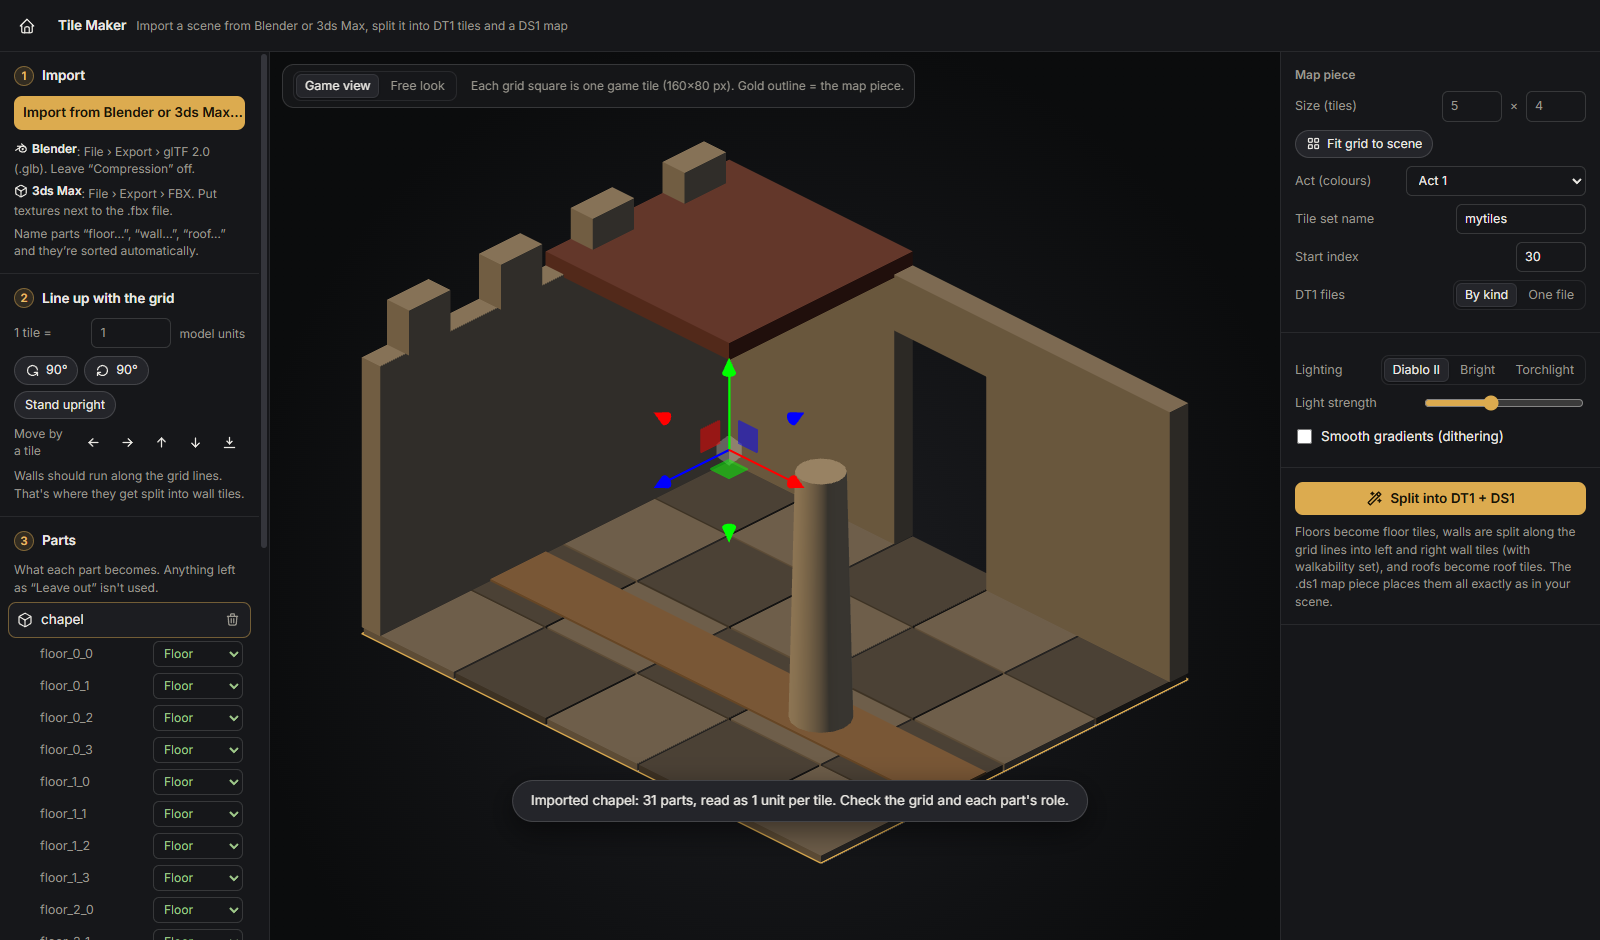
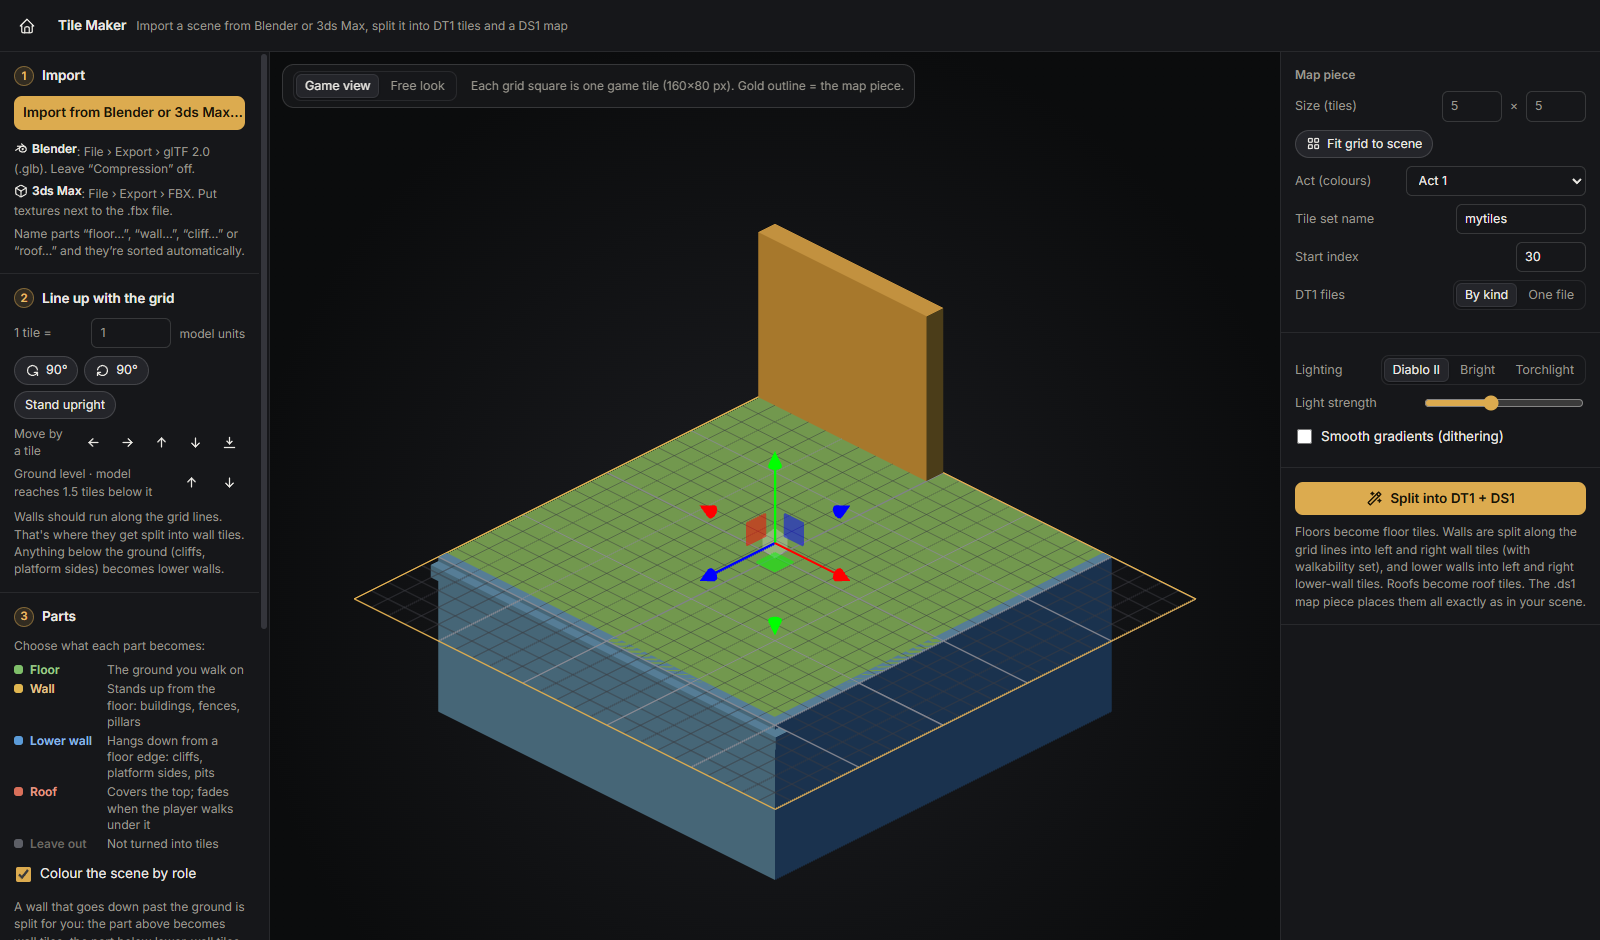
Preview v1.1: AI assistants (MCP) and lower walls in the Tile Maker

diff --git a/index.html b/index.html
@@ -176,13 +176,14 @@
 
 <div class="wrap">
   <header class="hero">
-    <div class="eyebrow"><b>Project Diablo 2</b> · standalone Windows editor · v1.0</div>
+    <div class="eyebrow"><b>Project Diablo 2</b> · standalone Windows editor · v1.1</div>
     <h1>PD2 <span>Sprite</span> Studio</h1>
     <p class="pitch">
       An editor for Diablo II / Project Diablo 2 graphics that reads straight from the game's MPQ archives.
       You can <strong>edit character, monster and item sprites pixel by pixel</strong> in the game palettes,
       <strong>turn 3D models into animated sprites</strong>, and <strong>cut 3D scenes from Blender or 3ds Max into DT1 map tiles
-      and a DS1 map piece</strong>. Everything saves back out in the game's own formats.
+      and a DS1 map piece</strong>. Everything saves back out in the game's own formats, and <strong>AI assistants can drive it over MCP</strong>
+      while you watch.
     </p>
     <div class="formats" aria-label="Formats handled">
       <span><b>MPQ</b> read</span>
@@ -194,6 +195,7 @@
       <span><b>animdata.d2</b> read</span>
       <span><b>FBX · GLB · OBJ</b> import</span>
       <span><b>PNG · JPEG · GIF</b> export</span>
+      <span><b>MCP</b> server</span>
     </div>
     <div class="hero-shot"><img src="screenshots/04-editor.png" alt="The sprite editor with the Barbarian's attack animation open: tool rail on the left, body parts on the right, frames and facing at the bottom, and a live preview." width="1600" height="940"></div>
   </header>
@@ -205,6 +207,7 @@
     <a href="#proof">Format accuracy</a>
     <a href="#how">How it works</a>
     <a href="#tiles">Tile Maker pipeline</a>
+    <a href="#ai">AI assistants</a>
     <a href="#limits">Known limits</a>
     <a href="#run">Running it</a>
     <a href="#refs">References</a>
@@ -253,12 +256,12 @@
         <figcaption><b>3D Studio (three.js).</b> Load FBX, GLB or OBJ with animations, attach props to bones, and preview in the game's colours on the current body. One click renders every facing × frame straight into a body part (16 × 16 in about 1.6 s).</figcaption>
       </figure>
       <figure>
-        <button type="button" data-full="screenshots/11-tile-maker.png"><img src="screenshots/11-tile-maker.png" alt="Tile Maker with an imported chapel scene on the isometric map grid, with import, line-up and parts steps." loading="lazy" width="1600" height="940"></button>
-        <figcaption><b>Tile Maker.</b> Import a scene from Blender or 3ds Max, line it up with the tile grid, and give each part the role floor, wall or roof.</figcaption>
+        <button type="button" data-full="screenshots/11-tile-maker.png"><img src="screenshots/11-tile-maker.png" alt="Tile Maker with an imported plateau coloured by role: green floor, gold wall, blue lower-wall cliffs below the ground, with the role legend." loading="lazy" width="1600" height="940"></button>
+        <figcaption><b>Tile Maker.</b> Import a scene from Blender or 3ds Max, line it up with the tile grid, and give each part a role: floor, wall, lower wall (cliffs, platform sides) or roof. A legend explains each role and the scene can be coloured by role; here a plateau's sides became lower walls on their own.</figcaption>
       </figure>
       <figure>
         <button type="button" data-full="screenshots/12-tile-maker-result.png"><img src="screenshots/12-tile-maker-result.png" alt="Tile Maker result: the map piece rendered by game rules, with tile counts and the DT1 files to be written." loading="lazy" width="1600" height="940"></button>
-        <figcaption><b>Split result.</b> The map piece is drawn from the generated DT1s and DS1 using the game's placement rules, then saved as <code>_floor</code>, <code>_walls</code> and <code>_roof</code> DT1s plus a <code>.ds1</code>.</figcaption>
+        <figcaption><b>Split result.</b> The map piece is drawn from the generated DT1s and DS1 using the game's placement rules, then saved as <code>_floor</code>, <code>_walls</code> and <code>_roof</code> DT1s plus a <code>.ds1</code>. The cliff faces are lower-wall tiles (orientations 16/17), drawn before the floor as the game does.</figcaption>
       </figure>
     </div>
   </div>
@@ -286,7 +289,8 @@
             <tr><td>DCC animations (sampled), decode → encode → decode</td><td class="n"><span class="ok">251 / 251</span> pixel-identical</td></tr>
             <tr><td>DT1 tile sets (v7), decode and re-encode</td><td class="n"><span class="ok">372 / 372</span> (221 byte-exact)</td></tr>
             <tr><td>DS1 map presets, decode and re-encode</td><td class="n"><span class="ok">2,593 / 2,593</span> (2,541 byte-exact)</td></tr>
-            <tr><td>Tile Maker: synthetic scene → DT1 + DS1 → re-rendered</td><td class="n"><span class="ok">150,486 / 150,486</span> px</td></tr>
+            <tr><td>Tile Maker: synthetic scene → DT1 + DS1 → re-rendered</td><td class="n"><span class="ok">208,566 / 208,566</span> px</td></tr>
+            <tr><td>MCP server: protocol, tools, origin check and stdio bridge against the running app</td><td class="n"><span class="ok">13 / 13</span> checks</td></tr>
             <tr><td>DCC growth edit keeps untouched art lossless (cell-grid anchoring)</td><td class="n"><span class="ok">0 px</span> changed</td></tr>
           </tbody>
         </table>
@@ -344,11 +348,63 @@
     <p class="lede">The old way was to render a scene and cut the walls into tiles by hand. This does the cutting automatically.</p>
     <ol class="pipeline">
       <li><span><b>Import and line up.</b> The model is set on the grid at “1 tile = N units” (auto-guessed for Blender metres or 3ds Max centimetres). You can stand Z-up models upright, turn them in 90° steps and move them by whole tiles.</span></li>
-      <li><span><b>Render layers.</b> Floor, wall and roof parts render separately through the exact tile camera, where world <code>(X, Y, Z)</code> maps to pixels as <code>((X−Z)·80, (X+Z)·40 − Y·98)</code>. A float render target also records each wall pixel's world position.</span></li>
-      <li><span><b>Slice.</b> Floors are sampled into the 25 diamond blocks per 160×80 tile. Each wall pixel goes to the nearest grid edge: near X = n gives a left wall (orientation 1), near Z = n gives a right wall (orientation 2). Roofs become orientation-15 tiles raised to their height.</span></li>
+      <li><span><b>Render layers.</b> Floor, wall, lower-wall and roof parts render separately through the exact tile camera, where world <code>(X, Y, Z)</code> maps to pixels as <code>((X−Z)·80, (X+Z)·40 − Y·98)</code>. A float render target also records each wall pixel's world position and which way its surface faces.</span></li>
+      <li><span><b>Slice.</b> Floors are sampled into the 25 diamond blocks per 160×80 tile. Each wall pixel goes to the grid line its surface runs along (the nearest line for flat tops): X = n gives a left wall (orientation 1), Z = n gives a right wall (orientation 2). Wall geometry below the ground becomes lower walls (16/17, directions 6/7). Roofs become orientation-15 tiles raised to their height.</span></li>
       <li><span><b>Walkability.</b> Low wall geometry marks the subtile it stands on as blocked (<code>0x07</code>), stored in the same row order the game's tiles use.</span></li>
-      <li><span><b>Write.</b> Identical tiles are shared, then indexes are assigned from a chosen start (64 per main index). It writes DT1 v7/6 files split by kind, plus a DS1 v18 map piece listing them, with floors in layer 1, left and right walls in wall layers 1–2 and roofs in wall layer 3.</span></li>
+      <li><span><b>Write.</b> Identical tiles are shared, then indexes are assigned from a chosen start (64 per main index). It writes DT1 v7/6 files split by kind, plus a DS1 v18 map piece listing them, with floors in layer 1 and walls, lower walls and roofs filling up to 4 wall layers.</span></li>
     </ol>
+  </div>
+</section>
+
+<section id="ai">
+  <div class="wrap">
+    <h2>AI assistants (MCP)</h2>
+    <p class="lede">
+      New in 1.1: the app can serve the <a href="https://modelcontextprotocol.io">Model Context Protocol</a>, so an assistant such as Claude
+      can work in the open app while you watch. Every change goes through the same code as the UI: it shows up live, is one undo step, and
+      exports like a hand edit. Tool results include pictures (the frame, a sheet, or the map drawn with the game's rules), so the assistant
+      can check its own work.
+    </p>
+    <div class="screens">
+      <figure>
+        <button type="button" data-full="screenshots/16-ai-settings.png"><img src="screenshots/16-ai-settings.png" alt="Settings with the AI assistants section: an on/off switch, the running address, and copyable setup for Claude Code and Claude Desktop." loading="lazy" width="1600" height="940"></button>
+        <figcaption><b>Turning it on.</b> Off by default. When it's on, Settings shows a one-line setup for Claude Code and a config block for Claude Desktop.</figcaption>
+      </figure>
+      <figure>
+        <button type="button" data-full="screenshots/17-ai-tile-scene.png"><img src="screenshots/17-ai-tile-scene.png" alt="Tile Maker scene built entirely through MCP tool calls: floor, two walls with a doorway, a pillar, and cliffs, coloured by role." loading="lazy" width="1600" height="940"></button>
+        <figcaption><b>A scene built by tool calls.</b> Floor slabs, walls with a doorway, a pillar and cliffs, added with <code>tiles_add_block</code>. Parts below the ground became lower walls automatically.</figcaption>
+      </figure>
+    </div>
+    <div class="cols" style="margin-top:22px">
+      <div class="card">
+        <div class="tag">Sprites</div>
+        <h3>Find, edit, export</h3>
+        <ul>
+          <li><code>search_sprites</code>, <code>open_animation</code>, <code>open_item</code>, <code>set_layer</code> (body part, style, new style code)</li>
+          <li><code>view_frame</code>, <code>view_sheet</code>, <code>read_pixels</code>, <code>palette</code> (nearest colours, shading ramps)</li>
+          <li><code>recolor_material</code>, <code>replace_color</code>, <code>hsv_shift</code>, <code>draw_pixels</code>, <code>draw_shape</code>, <code>outline</code>, <code>import_image</code></li>
+          <li><code>transfer_edits</code> carries one frame's edit through the animation; <code>undo</code> / <code>redo</code>; <code>export_pd2</code>, <code>export_image</code></li>
+        </ul>
+      </div>
+      <div class="card">
+        <div class="tag">Tile Maker</div>
+        <h3>Build and split scenes</h3>
+        <ul>
+          <li><code>tiles_add_block</code> (box, cylinder, cone, sphere, ramp in tile units) or <code>tiles_import_model</code></li>
+          <li><code>tiles_list_parts</code>, <code>tiles_set_role</code>, <code>tiles_settings</code>, <code>tiles_clear</code></li>
+          <li><code>tiles_split</code> returns tile counts and the map as the game draws it; <code>tiles_save</code> writes the DT1s and DS1</li>
+        </ul>
+      </div>
+      <div class="card">
+        <div class="tag">Connection</div>
+        <h3>Local only</h3>
+        <ul>
+          <li>Streamable HTTP on <code>127.0.0.1:41730/mcp</code>; requests from web pages (other origins or hosts) are refused</li>
+          <li>Claude Desktop and other stdio clients use a bundled bridge run by the app's own executable, so nothing else needs installing</li>
+          <li>Plus <code>get_state</code>, <code>go_to_screen</code> and <code>screenshot_app</code></li>
+        </ul>
+      </div>
+    </div>
   </div>
 </section>
 
@@ -359,7 +415,8 @@
     <ul class="limits">
       <li><b>Not yet tested in the game.</b> The exported DCC, DC6, DT1 and DS1 files are verified by decoding and re-rendering only. They still need a run in PD2 single player (PlugY / <code>-direct -txt</code>) and in ds1-studio.</li>
       <li><b>Online use is unconfirmed.</b> PD2's rules forbid tools that “tamper with the game”; whether client-side graphics changes count hasn't been asked yet.</li>
-      <li><b>Tile types.</b> Only floors, left/right walls and roofs are generated. Corners, doors, lower walls, shadows and animated tiles are not yet.</li>
+      <li><b>Tile types.</b> Floors, left/right walls, lower walls and roofs are generated. Corners, doors, shadows and animated tiles are not yet.</li>
+      <li><b>AI assistants work best with the high-level tools.</b> Recolours, edit transfer, clean-up and Tile Maker scenes come out well; pixel art drawn from scratch by an assistant is rough. While the MCP switch is on, any program on the PC can drive the app.</li>
       <li><b>DCC 4-colour cells.</b> Cells with more than 4 colours (common in 3D shading) are reduced at export. The editor flags them in red.</li>
       <li><b>No real Blender or 3ds Max files tested yet.</b> Tests used equivalent GLB and OBJ written by scripts. Draco-compressed GLB isn't supported.</li>
       <li><b>Walk flags and cell values are inferred.</b> The subtile flag layout and DS1 “tile present” values copy patterns found in the game's files, not a published spec.</li>
@@ -373,7 +430,7 @@
     <div class="run">
       <div>
         <p style="margin-bottom:14px">
-          The Windows installer (<code>PD2-Sprite-Studio-Setup-1.0.0.exe</code>, about 95 MB, unsigned) installs per-user with Start menu
+          The Windows installer (<code>PD2-Sprite-Studio-Setup-1.1.0.exe</code>, about 95 MB, unsigned) installs per-user with Start menu
           and desktop shortcuts. On first run it looks for the game in <code>C:\Program Files\Diablo II</code> and its
           <code>ProjectD2</code> folder; other locations can be set in Settings. It never modifies the game install:
           exports go to a separate folder with the game's own <code>data\global\…</code> layout.
@@ -384,6 +441,7 @@
 npm install
 npm run dev          <span class="c"># run with hot reload</span>
 npm test             <span class="c"># format round-trips against your game files</span>
+node scripts/testMcp.cjs  <span class="c"># MCP server end to end (after npm run build)</span>
 npm run dist         <span class="c"># build the Windows installer → release/</span>
 npx tsx scripts/webdev.ts   <span class="c"># UI in a browser on :5198</span></pre>
     </div>
@@ -404,11 +462,12 @@ npx tsx scripts/webdev.ts   <span class="c"># UI in a browser on :5198</span></p
       <li><a href="http://d2mods.info/forum/viewtopic.php?t=14662">How to make a 3D model be used by Diablo II</a><span>The Phrozen Keep tutorial (camera setup)</span></li>
       <li><a href="https://github.com/eezstreet/DT1-Tools">DT1-Tools</a><span>Paul Siramy's DT1 tools, 64-bit port</span></li>
       <li><a href="https://github.com/RoofooEvazan/ds1-studio">ds1-studio</a><span>DS1 map and DT1 library editor. Tile Maker output opens here.</span></li>
+      <li><a href="https://modelcontextprotocol.io">Model Context Protocol</a><span>How AI assistants connect to the app</span></li>
       <li><a href="https://threejs.org">three.js</a><span>3D engine for the 3D Studio and Tile Maker</span></li>
       <li><a href="https://www.electronjs.org">Electron</a><span>Desktop shell</span></li>
       <li><a href="https://www.projectdiablo2.com/rules">Project Diablo 2 rules</a><span>Read before any online use</span></li>
     </ul>
-    <footer>PD2 Sprite Studio 1.0 · Uses your own game files; no Blizzard or PD2 assets are distributed with it.</footer>
+    <footer>PD2 Sprite Studio 1.1 · Uses your own game files; no Blizzard or PD2 assets are distributed with it.</footer>
   </div>
 </section>
 
